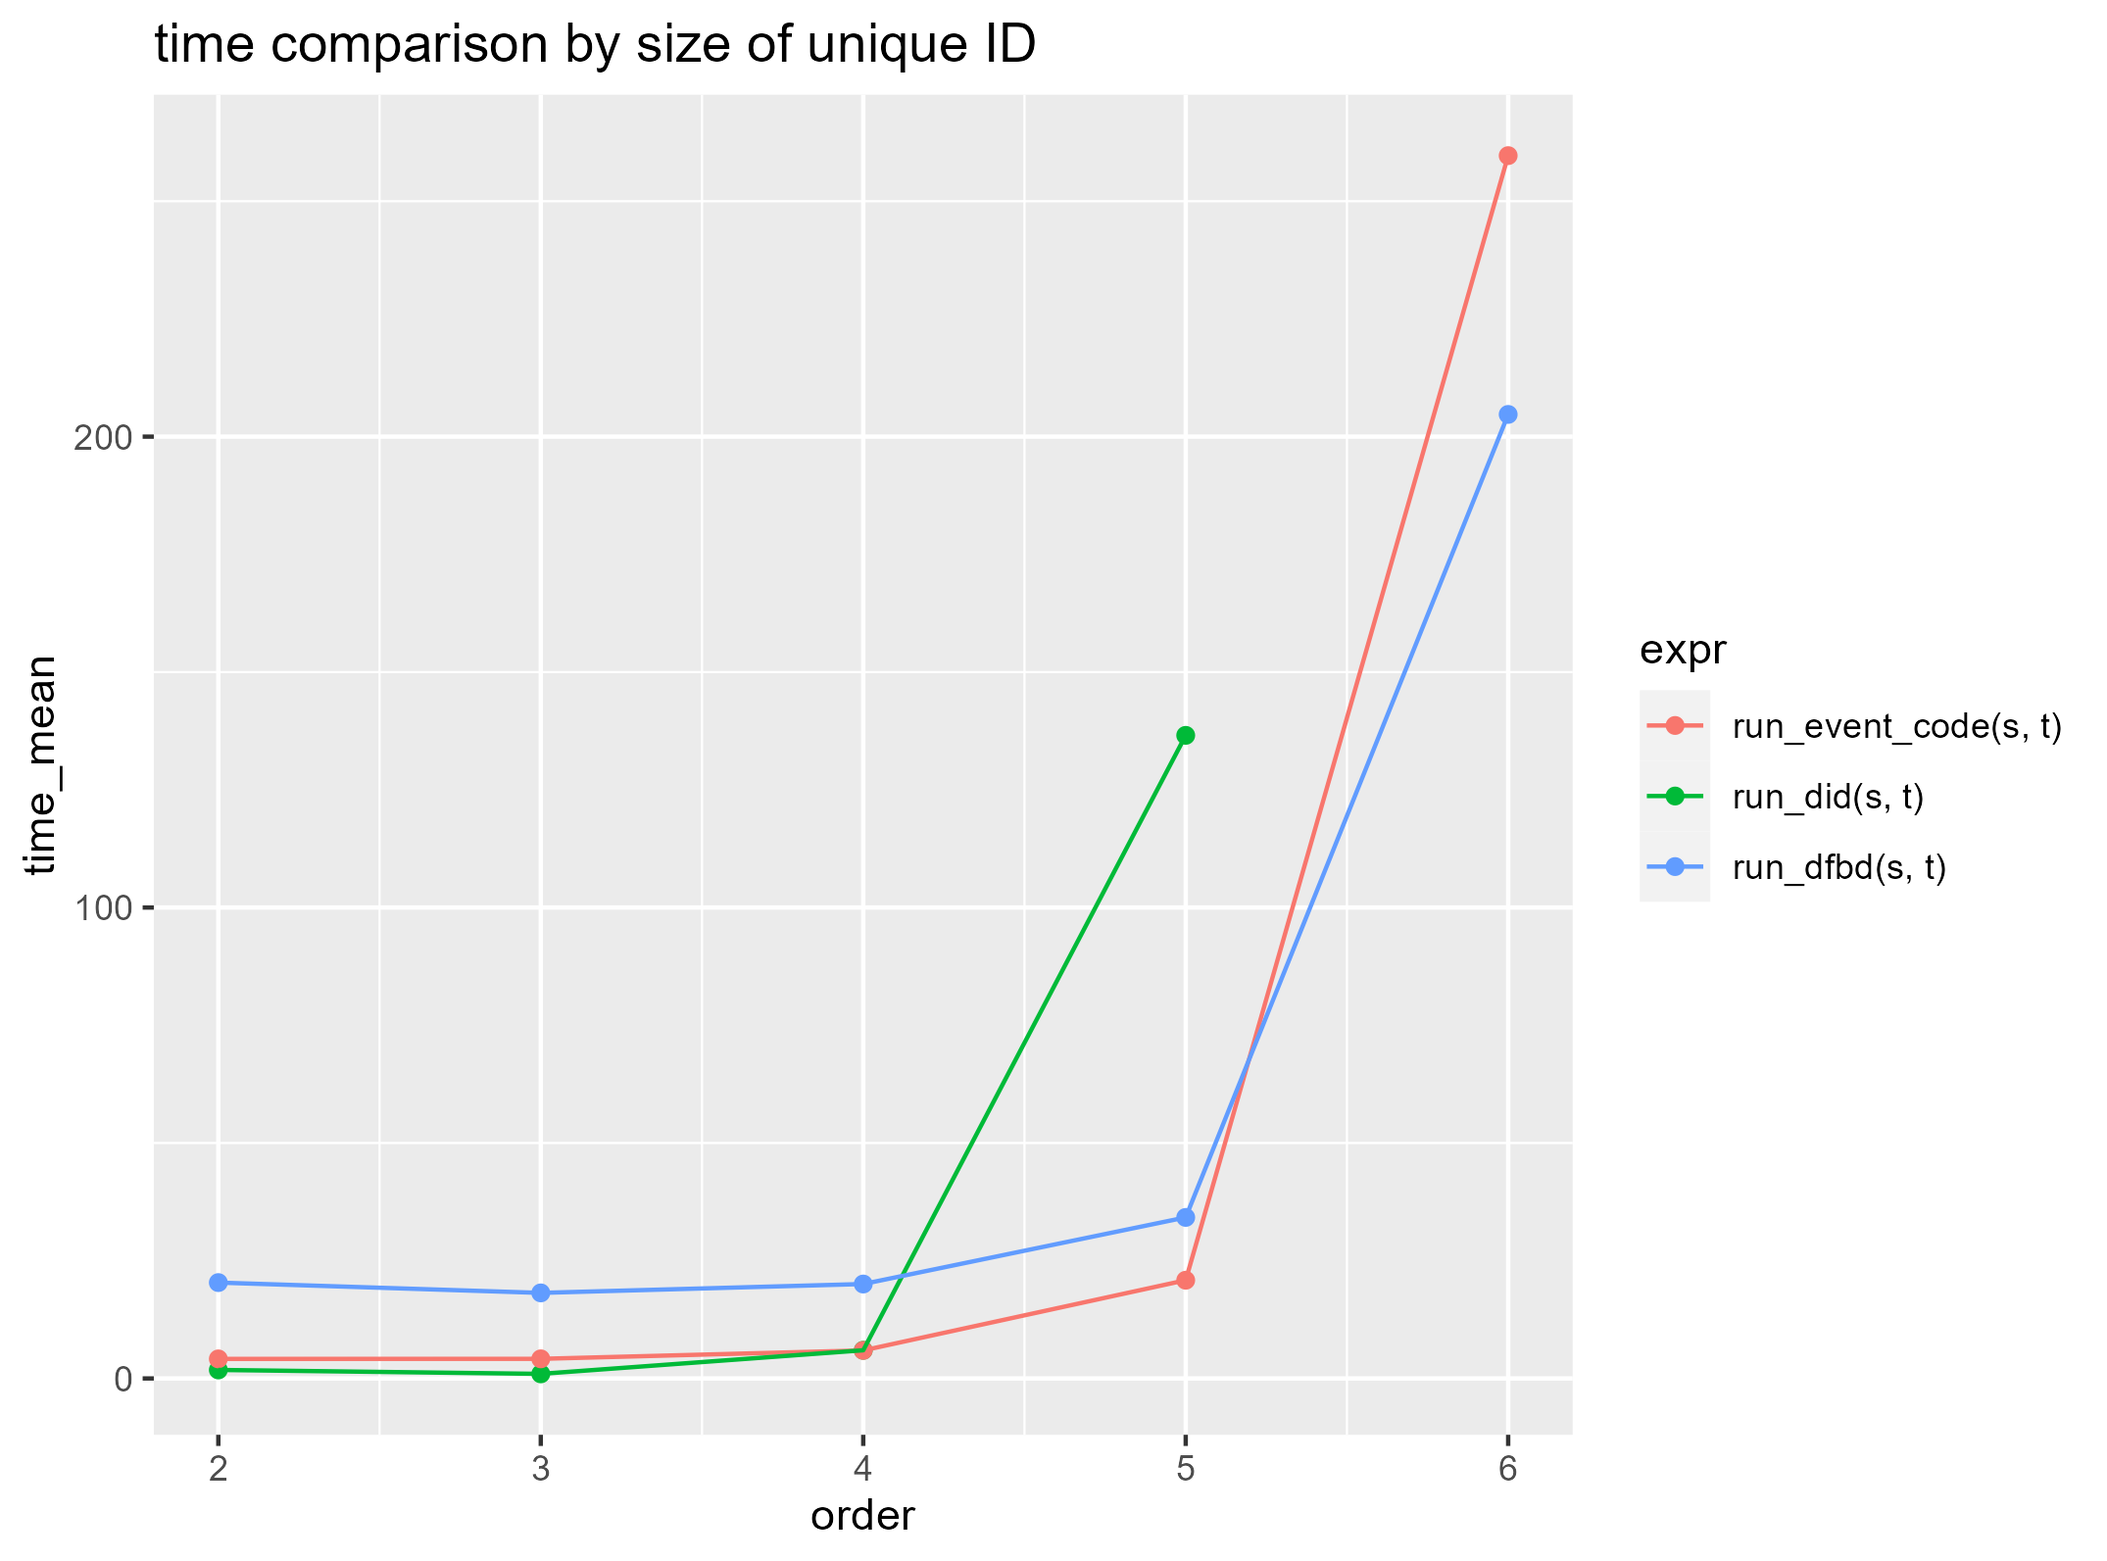
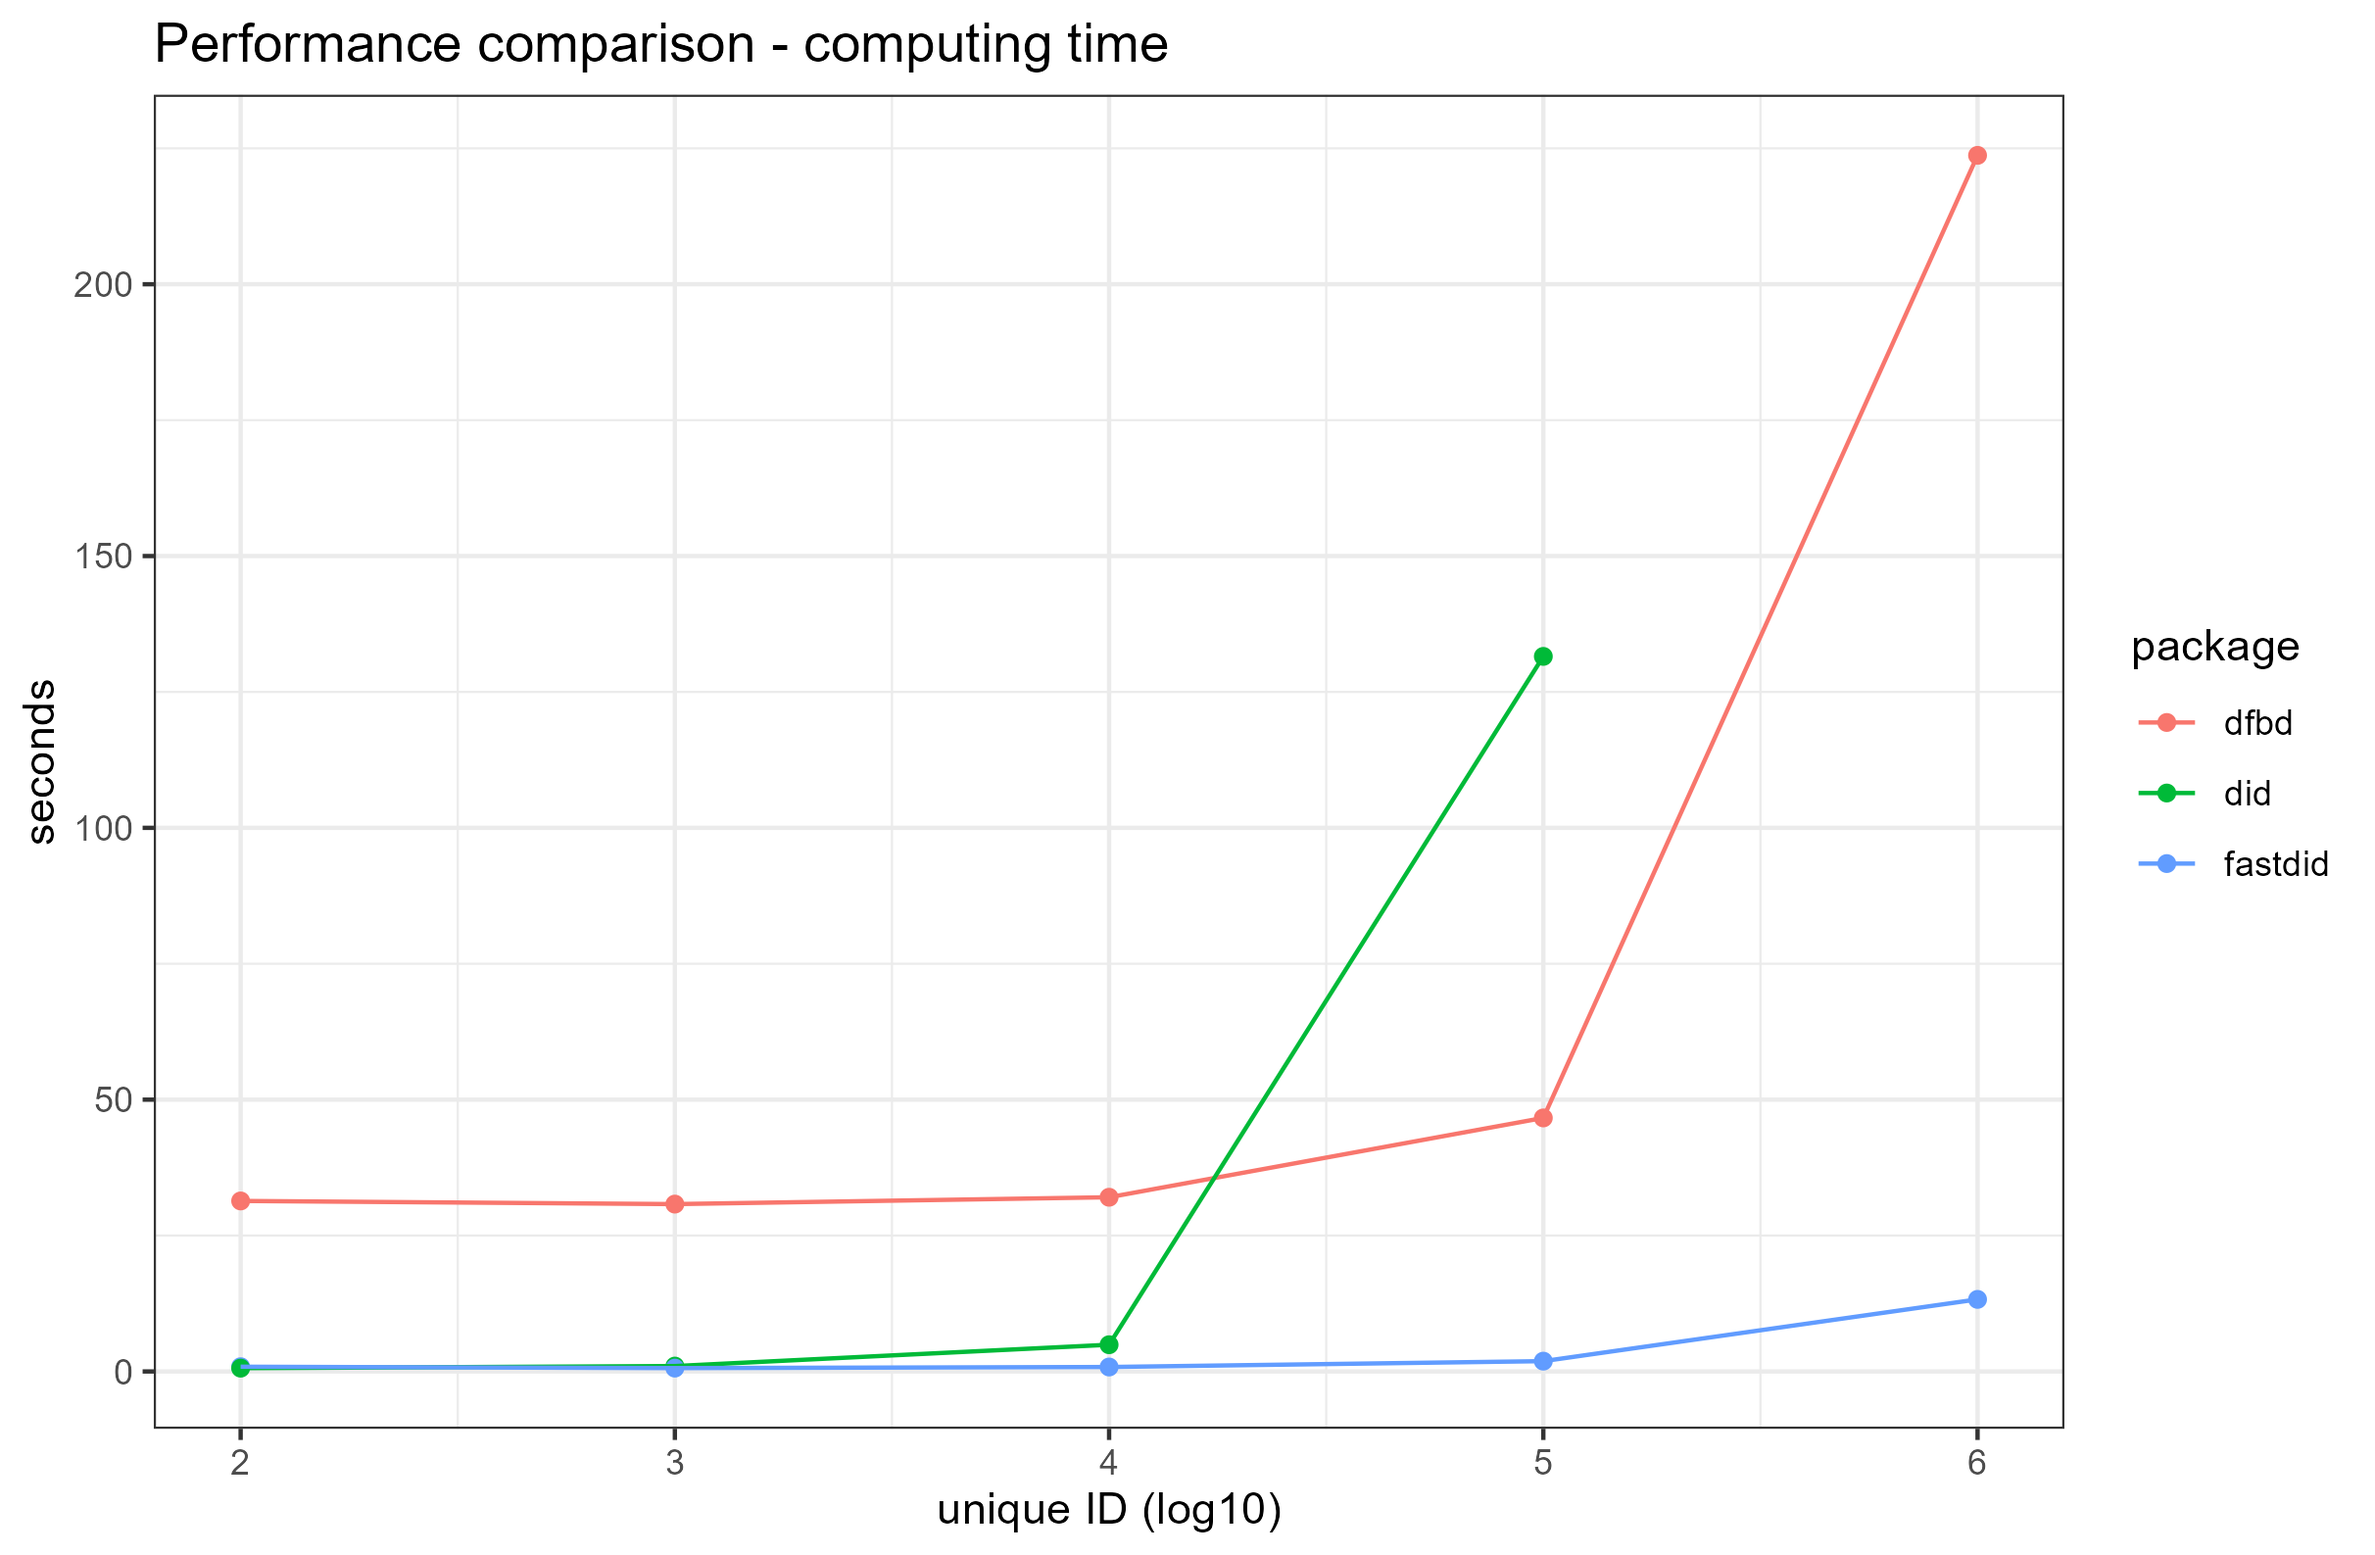
update benchmark

diff --git a/README.md b/README.md
@@ -1,6 +1,7 @@
 # fastdid - fast Difference-in-Differences
 
-The **fastdid** package is a lightning-fast implementation of the staggered Difference-in-difference estimators proposed by ![https://www.sciencedirect.com/science/article/pii/S0304407620303948](Callaway and Sant'Anna 2021).
+The **fastdid** package is a lightning-fast implementation of the staggered Difference-in-difference estimators proposed by [Callaway and Sant'Anna (2021)](https://www.sciencedirect.com/science/article/pii/S0304407620303948). 
+With **fastdid*, estimating DiD designs on millions of units takes seconds, not hours. 
 
 # Installation
 
@@ -13,15 +14,17 @@ devtools::install_github("TsaiLintung/fastdid")
 
 # Getting started
 
-A basic call.
-
 ```
 library(fastdid)
 
 #generate a simulated data
 simdt <- sim_did(1e+03, 10, cov = "cont", second_cov = TRUE)
 dt <- simdt$dt
+```
 
+A basic call.
+
+```
 result <- fastdid(dt, timevar = "time", cohortvar = "G", unitvar = "unit", outcomevar = "y",  result_type = "group_time")
 ```
 
@@ -40,6 +43,10 @@ result <- fastdid(dt, timevar = "time", cohortvar = "G", unitvar = "unit", outco
 ```
 
 # Performance
+
+![time](https://imgur.com/s5v32Rw)
+
+![ram](https://imgur.com/TJqfxj6)
 
 # Comparison to **did**
 
